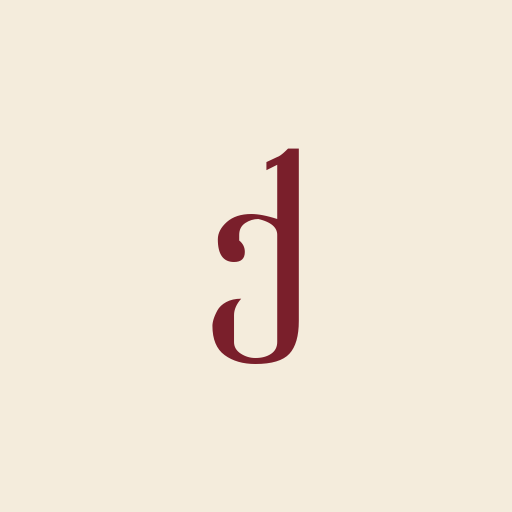
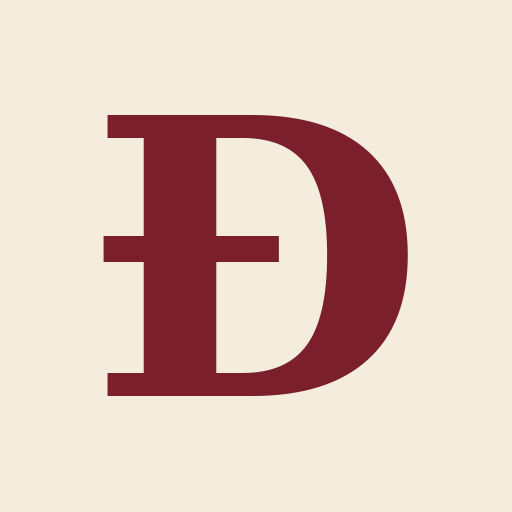
Remove all remaining Georgian remnants from the app
- README: retitle to Tiếng Việt Reader, drop "Georgian" from description
  and fix localStorage key reference (georgian-reader:* → vietnamese-reader:*)
- index.html: strip the `Georgia` serif font fallback from all 5 font-family
  declarations (Cormorant Garamond + generic serif is sufficient)
- Icons: replace Georgian script character with "Đ" (Đọc = Read) in matching
  wine-on-cream style across all four PWA icon sizes
- Delete georgian-reader-pwa.zip (original Georgian app archive)

https://claude.ai/code/session_015BZEsCTyCY6TQF3w9rcGy8

Changed region(s): [[0.1875, 0.2188, 0.8125, 0.7812]]

diff --git a/index.html b/index.html
@@ -512,7 +512,7 @@ function VietnameseReader() {
     <div ref={containerRef} style={{
       minHeight: "100%",
       background: `radial-gradient(ellipse at top, ${styles.cream} 0%, ${styles.creamDark} 100%)`,
-      fontFamily: "'Cormorant Garamond', Georgia, serif",
+      fontFamily: "'Cormorant Garamond', serif",
       color: styles.ink, padding: 0, position: "relative", overflow: "hidden",
     }}>
       <div style={{
@@ -1222,7 +1222,7 @@ function FlashcardView({ cards, idx, flipped, styles, onFlip, onNext, onPrev, on
       {isComplete ? (
         <div style={{ textAlign: "center", paddingTop: "80px" }}>
           <div style={{ fontSize: "48px", marginBottom: "24px", color: styles.gold }}>✓</div>
-          <div style={{ fontSize: "24px", fontWeight: 600, color: styles.wine, fontFamily: "'Cormorant Garamond', Georgia, serif", marginBottom: "8px" }}>
+          <div style={{ fontSize: "24px", fontWeight: 600, color: styles.wine, fontFamily: "'Cormorant Garamond', serif", marginBottom: "8px" }}>
             Study Complete
           </div>
           <button onClick={onBack} style={{
@@ -1254,7 +1254,7 @@ function FlashcardView({ cards, idx, flipped, styles, onFlip, onNext, onPrev, on
                 alignItems: "center", justifyContent: "center",
                 padding: "40px 32px",
               }}>
-                <div style={{ fontSize: "52px", fontWeight: 600, color: styles.wine, fontFamily: "'Cormorant Garamond', Georgia, serif", textAlign: "center" }}>
+                <div style={{ fontSize: "52px", fontWeight: 600, color: styles.wine, fontFamily: "'Cormorant Garamond', serif", textAlign: "center" }}>
                   {card.word}
                 </div>
                 <div style={{ fontSize: "11px", color: styles.inkSoft, marginTop: "28px", fontFamily: "'DM Sans', sans-serif", letterSpacing: "0.12em", textTransform: "uppercase" }}>
@@ -1271,7 +1271,7 @@ function FlashcardView({ cards, idx, flipped, styles, onFlip, onNext, onPrev, on
                 padding: "28px 32px",
                 display: "flex", flexDirection: "column", justifyContent: "center",
               }}>
-                <div style={{ fontSize: "36px", fontWeight: 600, color: styles.wine, fontFamily: "'Cormorant Garamond', Georgia, serif", marginBottom: "10px" }}>
+                <div style={{ fontSize: "36px", fontWeight: 600, color: styles.wine, fontFamily: "'Cormorant Garamond', serif", marginBottom: "10px" }}>
                   {card.word}
                 </div>
                 <div style={{ fontSize: "15px", color: styles.ink, fontFamily: "'DM Sans', sans-serif", lineHeight: 1.5, marginBottom: "16px" }}>
@@ -1280,7 +1280,7 @@ function FlashcardView({ cards, idx, flipped, styles, onFlip, onNext, onPrev, on
                 {card.sentenceContext && (
                   <div style={{
                     fontSize: "13px", color: styles.inkSoft, fontStyle: "italic",
-                    fontFamily: "'Cormorant Garamond', Georgia, serif",
+                    fontFamily: "'Cormorant Garamond', serif",
                     borderLeft: `2px solid ${styles.gold}`, paddingLeft: "12px", lineHeight: 1.6,
                   }}>
                     {card.sentenceContext}

diff --git a/README.md b/README.md
@@ -1,6 +1,6 @@
-# ქართული Reader
+# Tiếng Việt Reader
 
-A single-page Georgian reading PWA. No build step, no backend.
+A single-page Vietnamese reading PWA. No build step, no backend.
 
 ## Files
 
@@ -26,7 +26,7 @@ After the first load with a network connection, the service worker caches everyt
 
 ## Data persistence
 
-All stories, saved words, and archive state live in `localStorage` under the `georgian-reader:*` keys. iOS may evict localStorage for PWAs that haven't been opened in ~7 weeks, so use the **export backup** button periodically to save a JSON file you can re-import.
+All stories, saved words, and archive state live in `localStorage` under the `vietnamese-reader:*` keys. iOS may evict localStorage for PWAs that haven't been opened in ~7 weeks, so use the **export backup** button periodically to save a JSON file you can re-import.
 
 ## Updating the app
 
